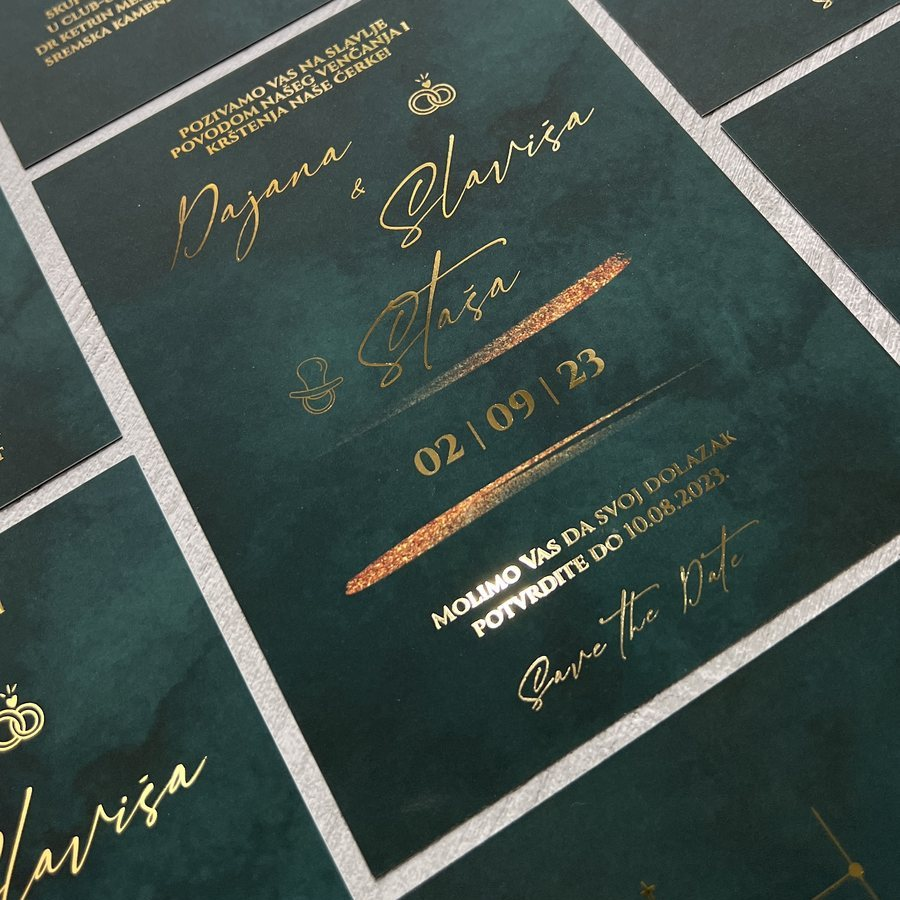
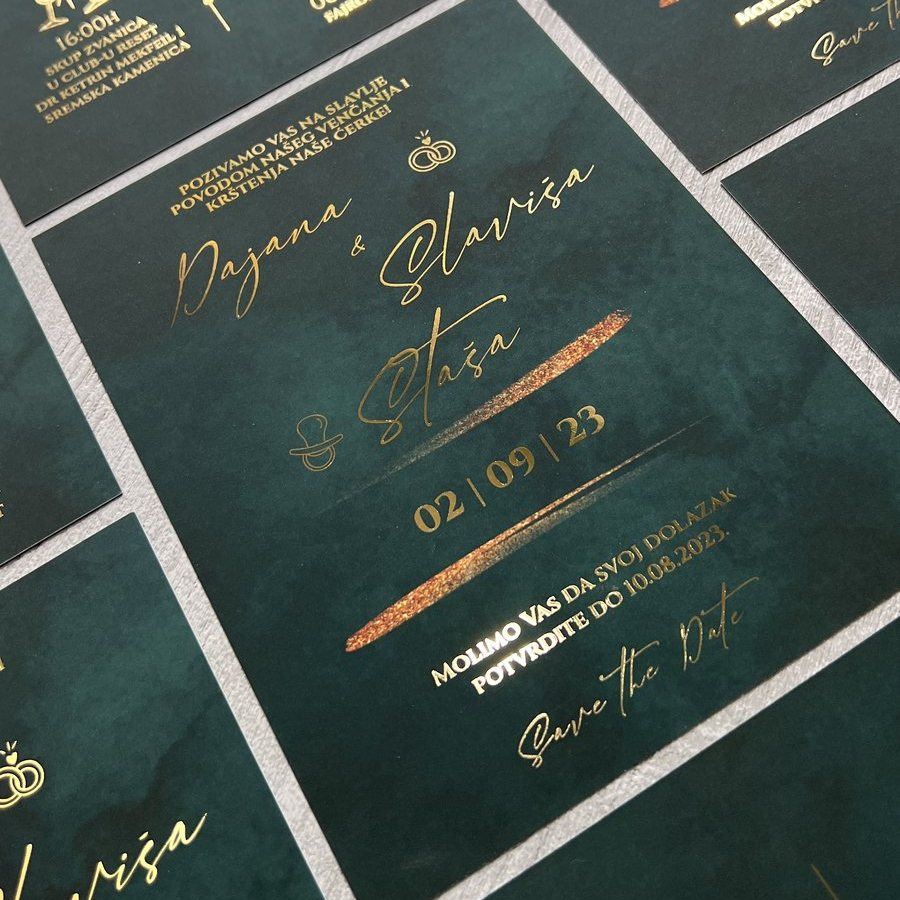
Osetite razliku: zlatotisak fotografija bolje kadrirana (cela pozivnica vidljiva), na telefonu 4:3 umesto 2:1; stil.css v=25

diff --git a/stil.css b/stil.css
@@ -184,7 +184,7 @@ section{padding:130px 0}
 .paper .h-lg{color:var(--ivory)}
 .paper .lead{color:#b9c4bb}
 .swatches{display:grid;grid-template-columns:repeat(5,1fr);gap:22px}
-@media(max-width:1000px){.swatches{grid-template-columns:repeat(2,1fr)}.sw-zt{grid-column:1/-1}.sw.sw-zt .chip{aspect-ratio:2/1}}
+@media(max-width:1000px){.swatches{grid-template-columns:repeat(2,1fr)}.sw-zt{grid-column:1/-1}.sw.sw-zt .chip{aspect-ratio:4/3}.sw-zt .chip img{object-position:50% 40%}}
 .sw .chip{aspect-ratio:1;box-shadow:0 30px 50px -20px rgba(0,0,0,.6);transition:transform .6s}
 .sw:hover .chip{transform:translateY(-6px)}
 .sw h4{font-family:var(--serif);font-weight:400;font-size:1.35rem;margin-top:20px;color:var(--gold-3)}

diff --git a/index.html b/index.html
@@ -9,7 +9,7 @@
 <link rel="preconnect" href="https://fonts.gstatic.com" crossorigin>
 <link href="https://fonts.googleapis.com/css2?family=Cormorant+Garamond:ital,wght@0,400;0,500;0,600;1,400;1,500&family=Jost:wght@300;400;500;600&family=Ms+Madi&family=Baloo+2&family=Pinyon+Script&family=Great+Vibes&family=Parisienne&family=Italianno&family=Allura&display=swap" rel="stylesheet">
 <link rel="stylesheet" href="fontovi/fontovi.css">
-<link rel="stylesheet" href="stil.css?v=24">
+<link rel="stylesheet" href="stil.css?v=25">
 </head>
 <body>
 

diff --git a/radionica.html b/radionica.html
@@ -10,7 +10,7 @@
 <link rel="preconnect" href="https://fonts.gstatic.com" crossorigin>
 <link href="https://fonts.googleapis.com/css2?family=Cormorant+Garamond:ital,wght@0,400;0,500;0,600;1,400;1,500&family=Jost:wght@300;400;500;600&display=swap" rel="stylesheet">
 <link href="fontovi/fontovi.css?v=1" rel="stylesheet">
-<link rel="stylesheet" href="stil.css?v=24">
+<link rel="stylesheet" href="stil.css?v=25">
 <link rel="stylesheet" href="editor/galerija.css?v=2">
 </head>
 <body>

diff --git a/editor.html b/editor.html
@@ -10,7 +10,7 @@
 <link rel="preconnect" href="https://fonts.gstatic.com" crossorigin>
 <link href="https://fonts.googleapis.com/css2?family=Cormorant+Garamond:ital,wght@0,400;0,500;0,600;1,400;1,500&family=Jost:wght@300;400;500;600&display=swap" rel="stylesheet">
 <link href="fontovi/fontovi.css?v=1" rel="stylesheet">
-<link rel="stylesheet" href="stil.css?v=24">
+<link rel="stylesheet" href="stil.css?v=25">
 <link rel="stylesheet" href="editor/editor.css?v=29">
 </head>
 <body>

diff --git a/pozivnice-rodjendani.html b/pozivnice-rodjendani.html
@@ -9,7 +9,7 @@
 <link rel="preconnect" href="https://fonts.googleapis.com">
 <link rel="preconnect" href="https://fonts.gstatic.com" crossorigin>
 <link href="https://fonts.googleapis.com/css2?family=Cormorant+Garamond:ital,wght@0,400;0,500;0,600;1,400;1,500&family=Jost:wght@300;400;500;600&display=swap" rel="stylesheet">
-<link rel="stylesheet" href="stil.css?v=24">
+<link rel="stylesheet" href="stil.css?v=25">
 </head>
 <body data-povod="rodjendani">
 

diff --git a/pozivnice-boarding-pass.html b/pozivnice-boarding-pass.html
@@ -9,7 +9,7 @@
 <link rel="preconnect" href="https://fonts.googleapis.com">
 <link rel="preconnect" href="https://fonts.gstatic.com" crossorigin>
 <link href="https://fonts.googleapis.com/css2?family=Cormorant+Garamond:ital,wght@0,400;0,500;0,600;1,400;1,500&family=Jost:wght@300;400;500;600&display=swap" rel="stylesheet">
-<link rel="stylesheet" href="stil.css?v=24">
+<link rel="stylesheet" href="stil.css?v=25">
 </head>
 <body data-povod="boarding">
 

diff --git a/pozivnice-vencanja.html b/pozivnice-vencanja.html
@@ -9,7 +9,7 @@
 <link rel="preconnect" href="https://fonts.googleapis.com">
 <link rel="preconnect" href="https://fonts.gstatic.com" crossorigin>
 <link href="https://fonts.googleapis.com/css2?family=Cormorant+Garamond:ital,wght@0,400;0,500;0,600;1,400;1,500&family=Jost:wght@300;400;500;600&display=swap" rel="stylesheet">
-<link rel="stylesheet" href="stil.css?v=24">
+<link rel="stylesheet" href="stil.css?v=25">
 </head>
 <body data-povod="vencanja">
 

diff --git a/pozivnice-premium.html b/pozivnice-premium.html
@@ -9,7 +9,7 @@
 <link rel="preconnect" href="https://fonts.googleapis.com">
 <link rel="preconnect" href="https://fonts.gstatic.com" crossorigin>
 <link href="https://fonts.googleapis.com/css2?family=Cormorant+Garamond:ital,wght@0,400;0,500;0,600;1,400;1,500&family=Jost:wght@300;400;500;600&display=swap" rel="stylesheet">
-<link rel="stylesheet" href="stil.css?v=24">
+<link rel="stylesheet" href="stil.css?v=25">
 </head>
 <body data-povod="premium">
 

diff --git a/pozivnice.html b/pozivnice.html
@@ -9,7 +9,7 @@
 <link rel="preconnect" href="https://fonts.googleapis.com">
 <link rel="preconnect" href="https://fonts.gstatic.com" crossorigin>
 <link href="https://fonts.googleapis.com/css2?family=Cormorant+Garamond:ital,wght@0,400;0,500;0,600;1,400;1,500&family=Jost:wght@300;400;500;600&display=swap" rel="stylesheet">
-<link rel="stylesheet" href="stil.css?v=24">
+<link rel="stylesheet" href="stil.css?v=25">
 </head>
 <body data-povod="">
 

diff --git a/kalkulator.html b/kalkulator.html
@@ -9,7 +9,7 @@
 <link rel="preconnect" href="https://fonts.googleapis.com">
 <link rel="preconnect" href="https://fonts.gstatic.com" crossorigin>
 <link href="https://fonts.googleapis.com/css2?family=Cormorant+Garamond:ital,wght@0,400;0,500;0,600;1,400;1,500&family=Jost:wght@300;400;500;600&display=swap" rel="stylesheet">
-<link rel="stylesheet" href="stil.css?v=24">
+<link rel="stylesheet" href="stil.css?v=25">
 </head>
 <body>
 

diff --git a/koverte.html b/koverte.html
@@ -9,7 +9,7 @@
 <link rel="preconnect" href="https://fonts.googleapis.com">
 <link rel="preconnect" href="https://fonts.gstatic.com" crossorigin>
 <link href="https://fonts.googleapis.com/css2?family=Cormorant+Garamond:ital,wght@0,400;0,500;0,600;1,400;1,500&family=Jost:wght@300;400;500;600&display=swap" rel="stylesheet">
-<link rel="stylesheet" href="stil.css?v=24">
+<link rel="stylesheet" href="stil.css?v=25">
 </head>
 <body>
 

diff --git a/pecati.html b/pecati.html
@@ -9,7 +9,7 @@
 <link rel="preconnect" href="https://fonts.googleapis.com">
 <link rel="preconnect" href="https://fonts.gstatic.com" crossorigin>
 <link href="https://fonts.googleapis.com/css2?family=Cormorant+Garamond:ital,wght@0,400;0,500;0,600;1,400;1,500&family=Jost:wght@300;400;500;600&display=swap" rel="stylesheet">
-<link rel="stylesheet" href="stil.css?v=24">
+<link rel="stylesheet" href="stil.css?v=25">
 </head>
 <body>
 
